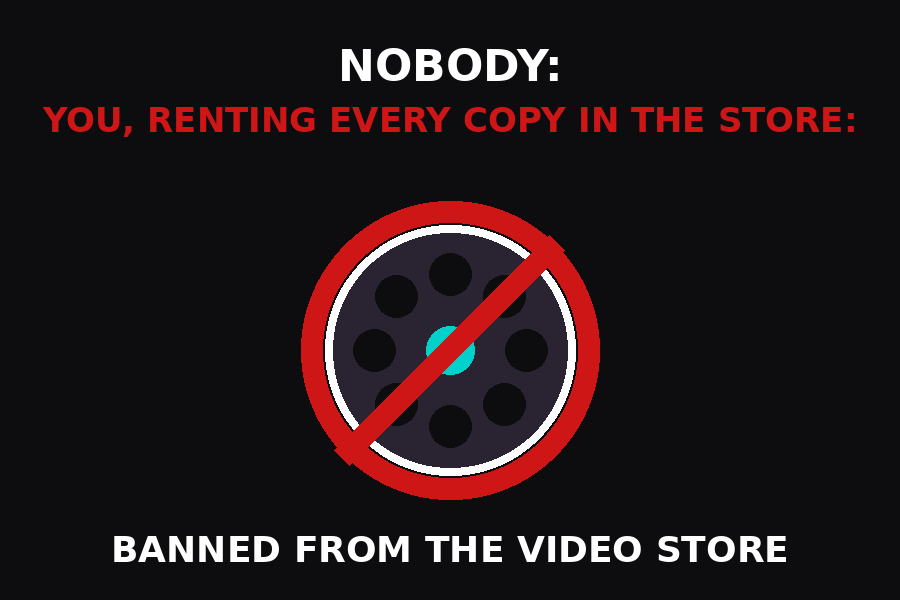
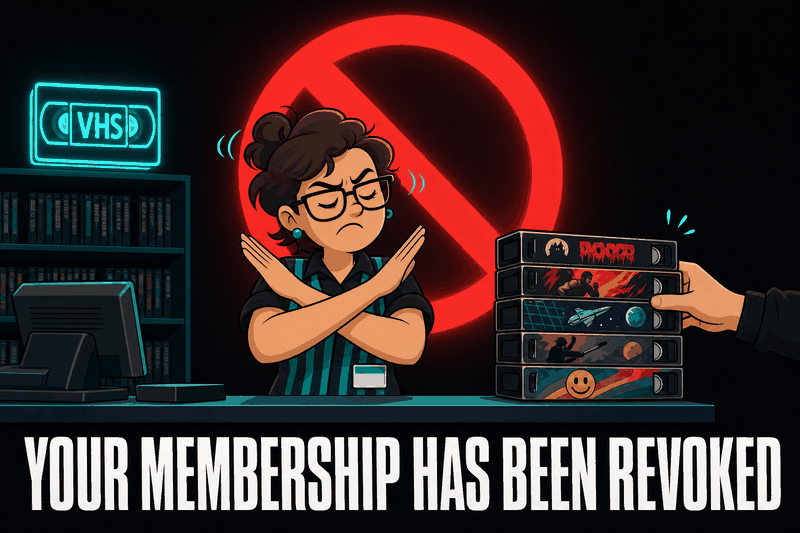
Use a friendlier banned meme

diff --git a/frontend/src/Banned.jsx b/frontend/src/Banned.jsx
@@ -22,7 +22,7 @@ const Banned = ({ user, onLogout }) => {
   return (
     <div className="Banned">
       <h1>You have been banned</h1>
-      <img className="Banned__meme" src="/banned-meme.png" alt="Banned from the video store" />
+      <img className="Banned__meme" src="/banned-meme.png" alt="A video store clerk refusing to hand over any more movies" />
       <p className="Banned__reason">
         Reason: <strong>{user.ban_reason || 'misbehaving'}</strong>
       </p>
